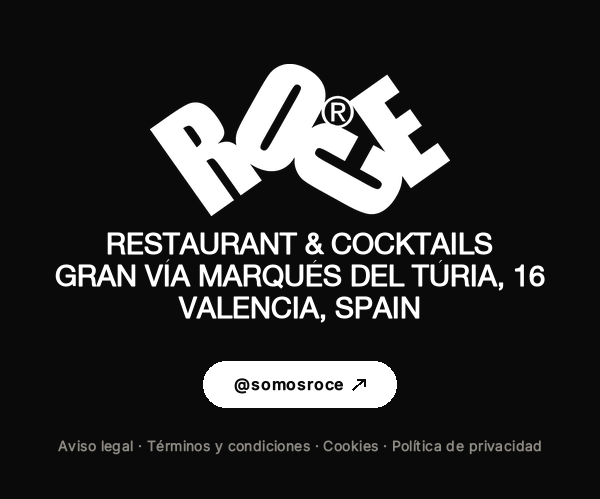
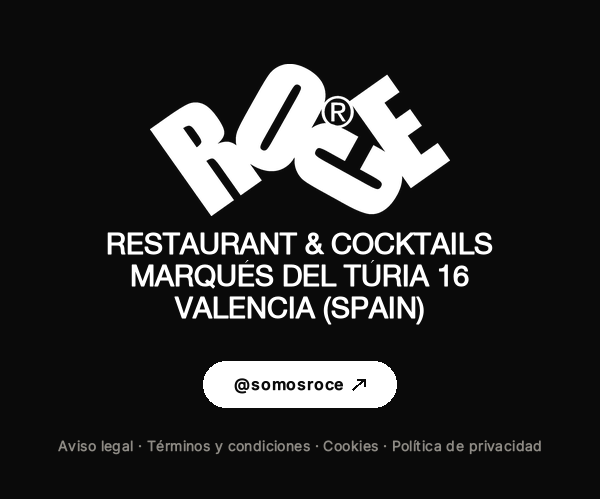
Footer address: Marqués del Túria 16 / Valencia (Spain) on every page and in the email footer image

Changed region(s): [[0.09, 0.511, 0.93, 0.6613]]

diff --git a/eventos.html b/eventos.html
@@ -449,8 +449,8 @@
   <img class="footer-logo" src="/assets/logo/roce-tilted-white.png" alt="ROCE">
   <div class="footer-info">
     <p class="footer-headline">Restaurant &amp; Cocktails</p>
-    <p class="footer-line">Gran Vía Marqués del Túria, 16</p>
-    <p class="footer-line">Valencia, Spain</p>
+    <p class="footer-line">Marqués del Túria 16</p>
+    <p class="footer-line">Valencia (Spain)</p>
   </div>
   <a class="footer-instagram" href="https://www.instagram.com/somosroce" target="_blank" rel="noopener">@somosroce ↗</a>
   <div class="footer-bottom">

diff --git a/fuck-who-doesn't-like-this-place/index.html b/fuck-who-doesn't-like-this-place/index.html
@@ -310,8 +310,8 @@
   <img class="footer-logo" src="/assets/logo/roce-tilted-white.png" alt="ROCE">
   <div class="footer-info">
     <p class="footer-headline">Restaurant &amp; Cocktails</p>
-    <p class="footer-line">Gran Vía Marqués del Túria, 16</p>
-    <p class="footer-line">Valencia, Spain</p>
+    <p class="footer-line">Marqués del Túria 16</p>
+    <p class="footer-line">Valencia (Spain)</p>
   </div>
   <a class="footer-instagram" href="https://www.instagram.com/somosroce" target="_blank" rel="noopener">@somosroce ↗</a>
   <div class="footer-bottom">

diff --git a/cookies.html b/cookies.html
@@ -104,8 +104,8 @@
   <img class="footer-logo" src="assets/logo/roce-tilted-white.png" alt="ROCE">
   <div class="footer-info">
     <p class="footer-headline">Restaurant &amp; Cocktails</p>
-    <p class="footer-line">Gran Vía Marqués del Túria, 16</p>
-    <p class="footer-line">Valencia, Spain</p>
+    <p class="footer-line">Marqués del Túria 16</p>
+    <p class="footer-line">Valencia (Spain)</p>
   </div>
   <a class="footer-instagram" href="https://www.instagram.com/somosroce" target="_blank" rel="noopener">@somosroce ↗</a>
   <div class="footer-bottom">

diff --git a/aviso-legal.html b/aviso-legal.html
@@ -77,8 +77,8 @@
   <img class="footer-logo" src="assets/logo/roce-tilted-white.png" alt="ROCE">
   <div class="footer-info">
     <p class="footer-headline">Restaurant &amp; Cocktails</p>
-    <p class="footer-line">Gran Vía Marqués del Túria, 16</p>
-    <p class="footer-line">Valencia, Spain</p>
+    <p class="footer-line">Marqués del Túria 16</p>
+    <p class="footer-line">Valencia (Spain)</p>
   </div>
   <a class="footer-instagram" href="https://www.instagram.com/somosroce" target="_blank" rel="noopener">@somosroce ↗</a>
   <div class="footer-bottom">

diff --git a/privacidad.html b/privacidad.html
@@ -97,8 +97,8 @@
   <img class="footer-logo" src="assets/logo/roce-tilted-white.png" alt="ROCE">
   <div class="footer-info">
     <p class="footer-headline">Restaurant &amp; Cocktails</p>
-    <p class="footer-line">Gran Vía Marqués del Túria, 16</p>
-    <p class="footer-line">Valencia, Spain</p>
+    <p class="footer-line">Marqués del Túria 16</p>
+    <p class="footer-line">Valencia (Spain)</p>
   </div>
   <a class="footer-instagram" href="https://www.instagram.com/somosroce" target="_blank" rel="noopener">@somosroce ↗</a>
   <div class="footer-bottom">

diff --git a/terminos.html b/terminos.html
@@ -73,8 +73,8 @@
   <img class="footer-logo" src="assets/logo/roce-tilted-white.png" alt="ROCE">
   <div class="footer-info">
     <p class="footer-headline">Restaurant &amp; Cocktails</p>
-    <p class="footer-line">Gran Vía Marqués del Túria, 16</p>
-    <p class="footer-line">Valencia, Spain</p>
+    <p class="footer-line">Marqués del Túria 16</p>
+    <p class="footer-line">Valencia (Spain)</p>
   </div>
   <a class="footer-instagram" href="https://www.instagram.com/somosroce" target="_blank" rel="noopener">@somosroce ↗</a>
   <div class="footer-bottom">

diff --git a/styles.css b/styles.css
@@ -102,7 +102,7 @@ a { color: inherit; }
 }
 
 @media (max-width: 640px) {
-  /* Más pequeño para que "Gran Vía Marqués del Túria, 16" no salte de línea. */
+  /* Más pequeño para que "Marqués del Túria 16" no salte de línea. */
   .footer-info p { font-size: clamp(0.8rem, 5vw, 1.5rem); letter-spacing: 0; }
 }
 
